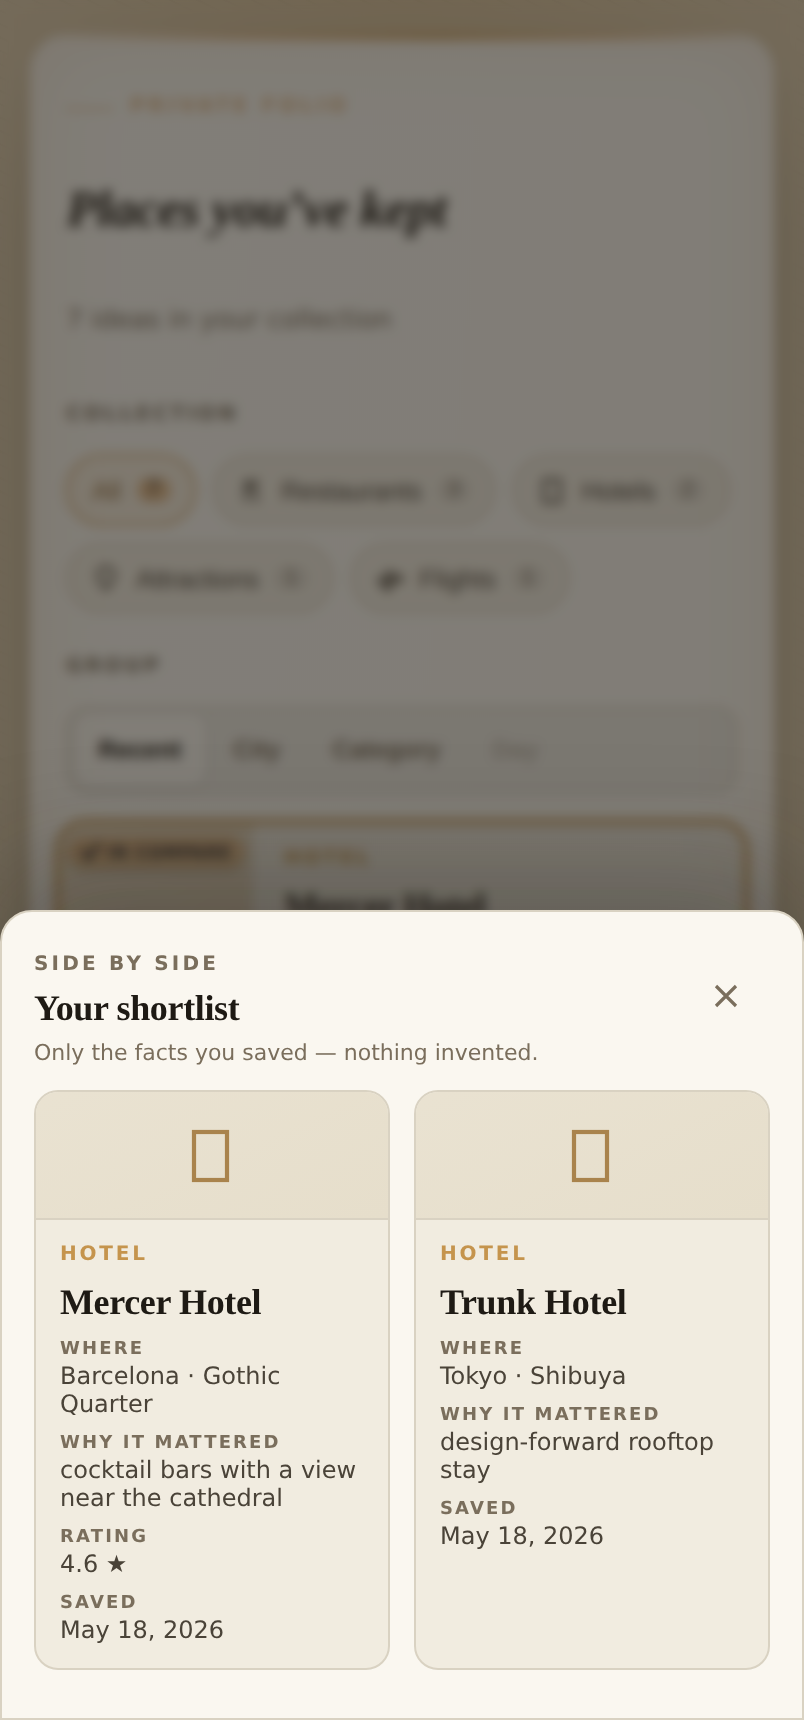
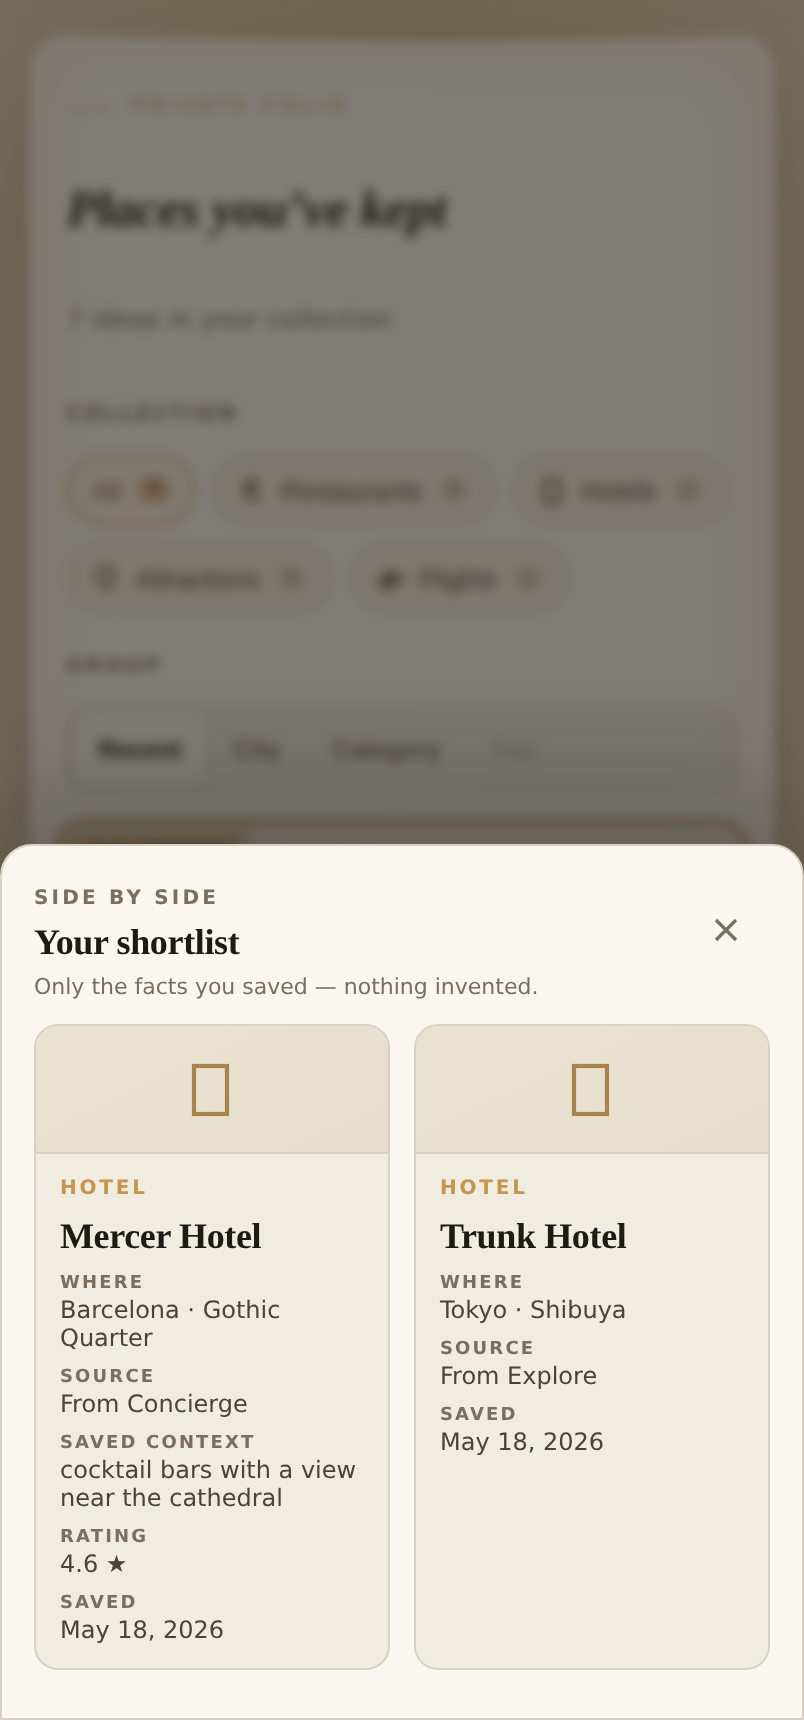
Saved Folio patch-3: honest "Saved context" label (was "Why it mattered")
The card/compare value is the saved search query, not a user-authored note,
so "Why it mattered" was misleading.

- Renamed the label to "Saved context" on the card and compare sheet.
- Compare sheet now shows two honest, independent datapoints, each only when
  present: Source (From Concierge / From Explore, from provenance.source) and
  Saved context (searchContext.query). Explore saves without a query show
  Source only — no invented note. If neither exists, the block is omitted.
- Card source remains on the spine tab; card "Saved context" shows the query.

No editable notes, no schema/API/backend change (still deferred next slice).
Preserved: filter/group fix, single bottom compare control, compare tray/sheet,
Add to Trip / Create Trip / Map / Delete, light folio styling. 3166 tests, 0
failures. Evidence refreshed.

https://claude.ai/code/session_016SpD151EcFzzHGaJWv99s4

Changed region(s): [[0.0, 0.493, 1.0, 0.8936]]

diff --git a/frontend/src/components/saved/SavedShell.tsx b/frontend/src/components/saved/SavedShell.tsx
@@ -98,9 +98,9 @@ function sourceLabel(item: SavedItem): string | null {
   return null;
 }
 
-// "Why it mattered" is the real search query the user typed when the item was
+// "Saved context" is the real search query the user typed when the item was
 // saved (concierge rows carry searchContext.query). Never fabricated; omitted
-// when no query was recorded.
+// when no query was recorded. Surfaced under the "Saved context" label.
 function whyItMattered(item: SavedItem): string | null {
   return ctxStr(item, "query");
 }
@@ -377,10 +377,12 @@ function PlaceDossierCard({
             </p>
           )}
 
-          {/* Why it mattered — the real saved search query; omitted when absent */}
+          {/* Saved context — the real saved search query; omitted when absent.
+              (Source — From Concierge / From Explore — is shown on the plate's
+              spine tab.) Never an invented note. */}
           {why && (
             <p className="folio-dossier-why" data-testid="saved-item-why">
-              <span className="folio-why-label">Why it mattered</span>
+              <span className="folio-why-label">Saved context</span>
               {why}
             </p>
           )}
@@ -747,7 +749,8 @@ function CompareSheet({
             const name = snapStr(it, "name") ?? it.displayName;
             const where = snapStr(it, "address") ?? snapStr(it, "destination") ?? ctxStr(it, "destination");
             const rating = snapNum(it, "rating");
-            const why = whyItMattered(it);
+            const source = sourceLabel(it);
+            const savedQuery = whyItMattered(it);
             return (
               <div key={it.id} className="folio-compare-col" data-testid="compare-col">
                 <div className="folio-compare-col-plate" aria-hidden="true">
@@ -762,13 +765,19 @@ function CompareSheet({
                       {where}
                     </div>
                   )}
-                  {/* Saved note/context — the real reason this place was kept, so
-                      two places can be compared by saved context. Omitted when
-                      absent (never fabricated). */}
-                  {why && (
+                  {/* Two honest saved datapoints: provenance source, and the
+                      saved search query. Each shown only when present; never an
+                      invented note. */}
+                  {source && (
+                    <div className="folio-compare-row" data-testid="compare-source">
+                      <span className="folio-compare-row-k">Source</span>
+                      {source}
+                    </div>
+                  )}
+                  {savedQuery && (
                     <div className="folio-compare-row" data-testid="compare-note">
-                      <span className="folio-compare-row-k">Why it mattered</span>
-                      {why}
+                      <span className="folio-compare-row-k">Saved context</span>
+                      {savedQuery}
                     </div>
                   )}
                   {rating != null && (

diff --git a/docs/ai/HANDOFF.md b/docs/ai/HANDOFF.md
@@ -21,6 +21,7 @@ Reskins `/saved` from the prior dark "cinema scrapbook" into the **Private Folio
 - **Preserved behavior + testids:** `listSavedItems`/`deleteSavedItem`/`fetchTrips`/`addSavedItemToTrip`, the add-to-trip state machine (picking/adding/added/error), CreateTripFromSavedModal, hotel discovery context, and every locked testid.
 - **patch-1 (review fixes):** (1) filter/group state hardened — visible collection is one pure `buildVisibleGroups(items, activeCat, groupMode)` derivation from the full array (filter→group), sections keyed by `${activeCat}:${groupMode}:${key}` so switching never leaves remnants (no refresh needed); (2) primary CTAs + selection/focus accents moved off marine to the warm **gilt/amber** folio palette (sandstone-gold→ember-brass, ink-paper text) — the Saved surface carries no blue (per PK direction); richer desk/paper depth (leather table contrast, layered warm shadows, inner highlight); (3) **card spine fixed** — dropped the `Card.Identity` flex wrapper (Tailwind `flex` in the utilities layer was overriding the grid, collapsing the plate to a clipped corner); the dossier card itself is now the `96px 1fr` grid with a full-height left rail; flight card is a flex column. Evidence: `docs/ai/design/evidence/saved-folio-v1/`.
 - **patch-2 (compare UX + notes):** removed the duplicate top-of-plate compare control (`ComparePick`/`.folio-pick` deleted) — the **single** compare toggle is now the bottom action-row icon (`.folio-compare-toggle`, filled gilt + check when selected); selected cards show a non-interactive "In compare" gilt flag (`.folio-compare-flag`) + the amber ring. The **compare sheet now shows each item's saved note** ("Why it mattered" = real `searchContext.query`) so two places compare by saved context. **Editable user notes are NOT yet supported** — `saved_items` has no note/description column and there is no update/PATCH endpoint or `updateSavedItem` API; this patch does not fake persistence or add a migration. Next slice: add a `note` column + PATCH `/saved-items/{id}` + `updateSavedItem` to make "Your note" editable.
+- **patch-3 (honest data label):** renamed the misleading "Why it mattered" label to **"Saved context"** on the card and compare sheet (the value is the saved search query, not a user note). The compare sheet now shows two honest, independent datapoints, each only when present: **Source** (From Concierge / From Explore, from `provenance.source`) and **Saved context** (the `searchContext.query`). Explore saves with no query show Source only — no invented note. Card source stays on the spine tab; card "Saved context" shows the query when present. No schema/API change; editable notes still deferred.
 - **Architecture:** Saved reclassified cinema→paper. `unified-folio-cinema-architecture` + 6 prior visual-identity test files updated in place ("assertions that legitimately moved"); behavior assertions retained. New `tests/saved-private-folio-v1.test.mjs` (14) locks source labels, why-from-query, compare cap/place-only, flight variant, Day-disabled, immersive shell, no-drift. **3159 frontend tests, 0 failures.** node_modules absent locally → tsc/next build/lint via CI `certify`; no headless browser for the live app (approved prototype screenshots are the design-intent reference).
 
 ### Explore Observatory v1 — /explore premium reskin (current branch)
